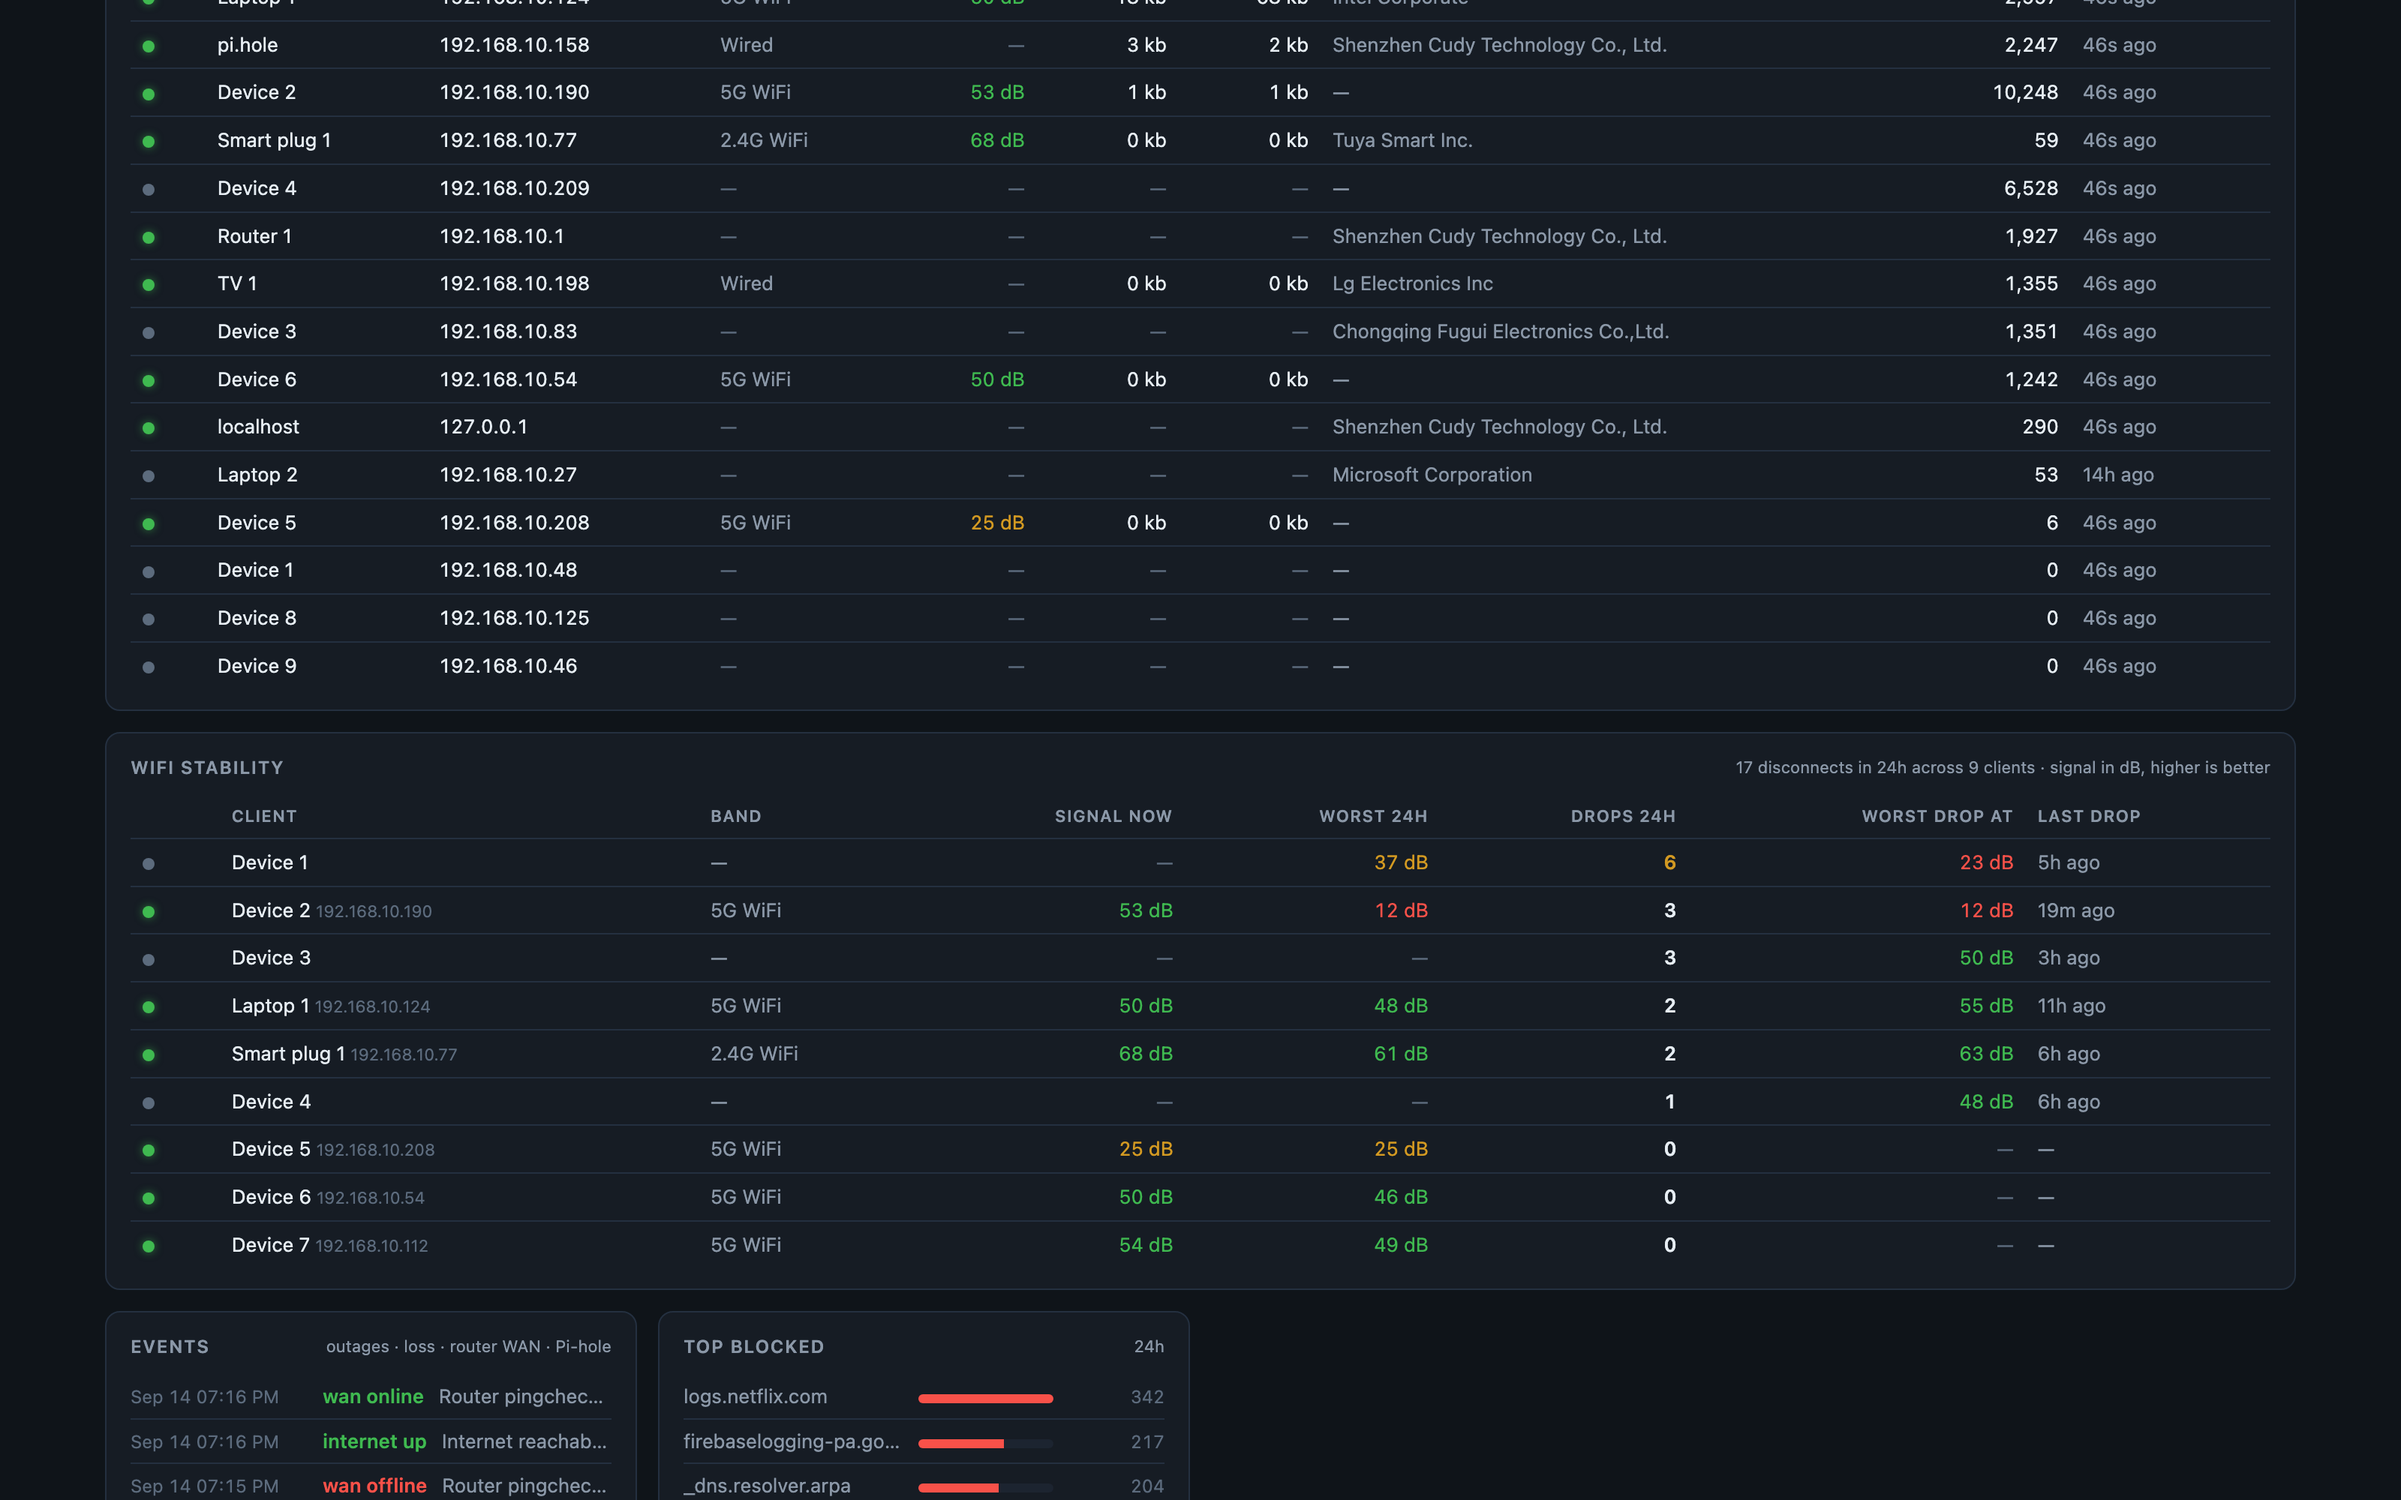
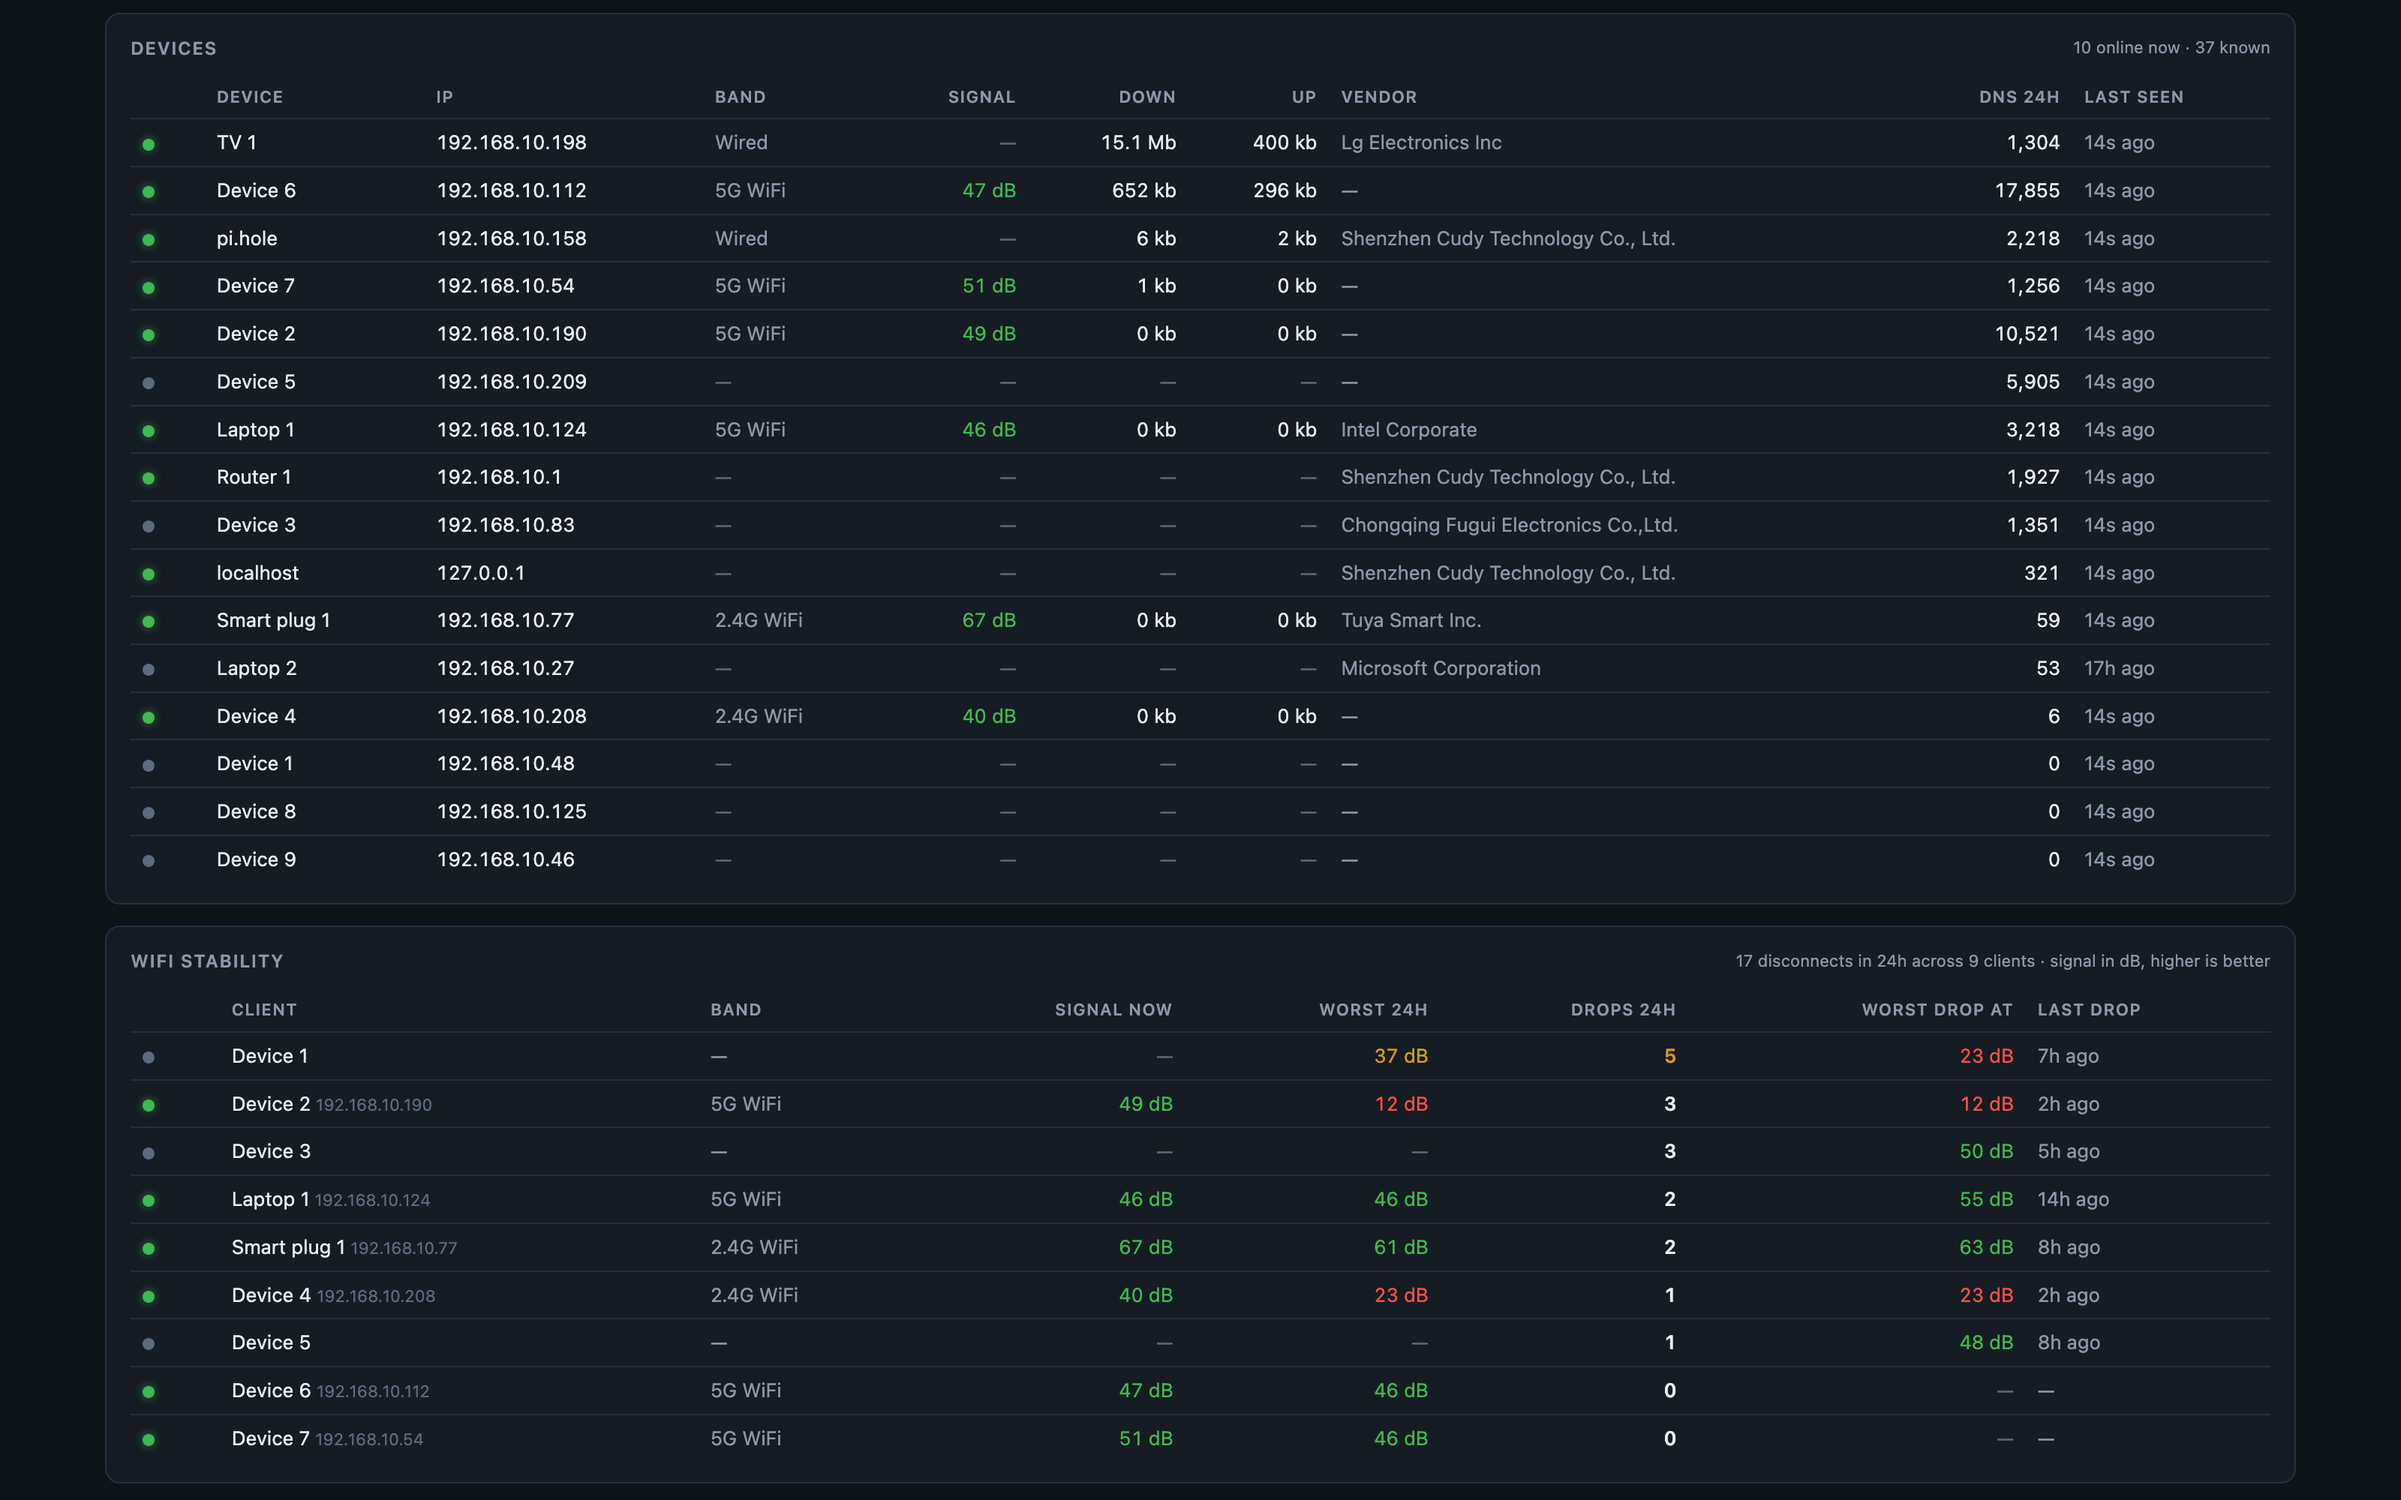
Refresh README screenshots for services, auto-detect tags, and incidents

diff --git a/README.md b/README.md
@@ -4,9 +4,11 @@ A single-page, self-hosted home network dashboard. One glance answers *"is it my
 
 Built for a low-power always-on box (in my case an old laptop running Pi-hole and a Tailscale exit node). One Python process, SQLite, no external assets — **the page still renders when the internet is down**, which is precisely when you'll be looking at it.
 
-![Overview — status tiles, WAN health, line usage, Pi-hole queries](docs/overview.png)
+![Overview — verdict, status tiles, and the auto-detected service status strips](docs/overview.png)
 
 ![Devices with per-client signal and rate, and the WiFi stability table](docs/devices.png)
+
+![Incidents — outages grouped with duration, cause, and a 7-day uptime summary](docs/incidents.png)
 
 <details>
 <summary>TV mode (1080p, sofa distance)</summary>
